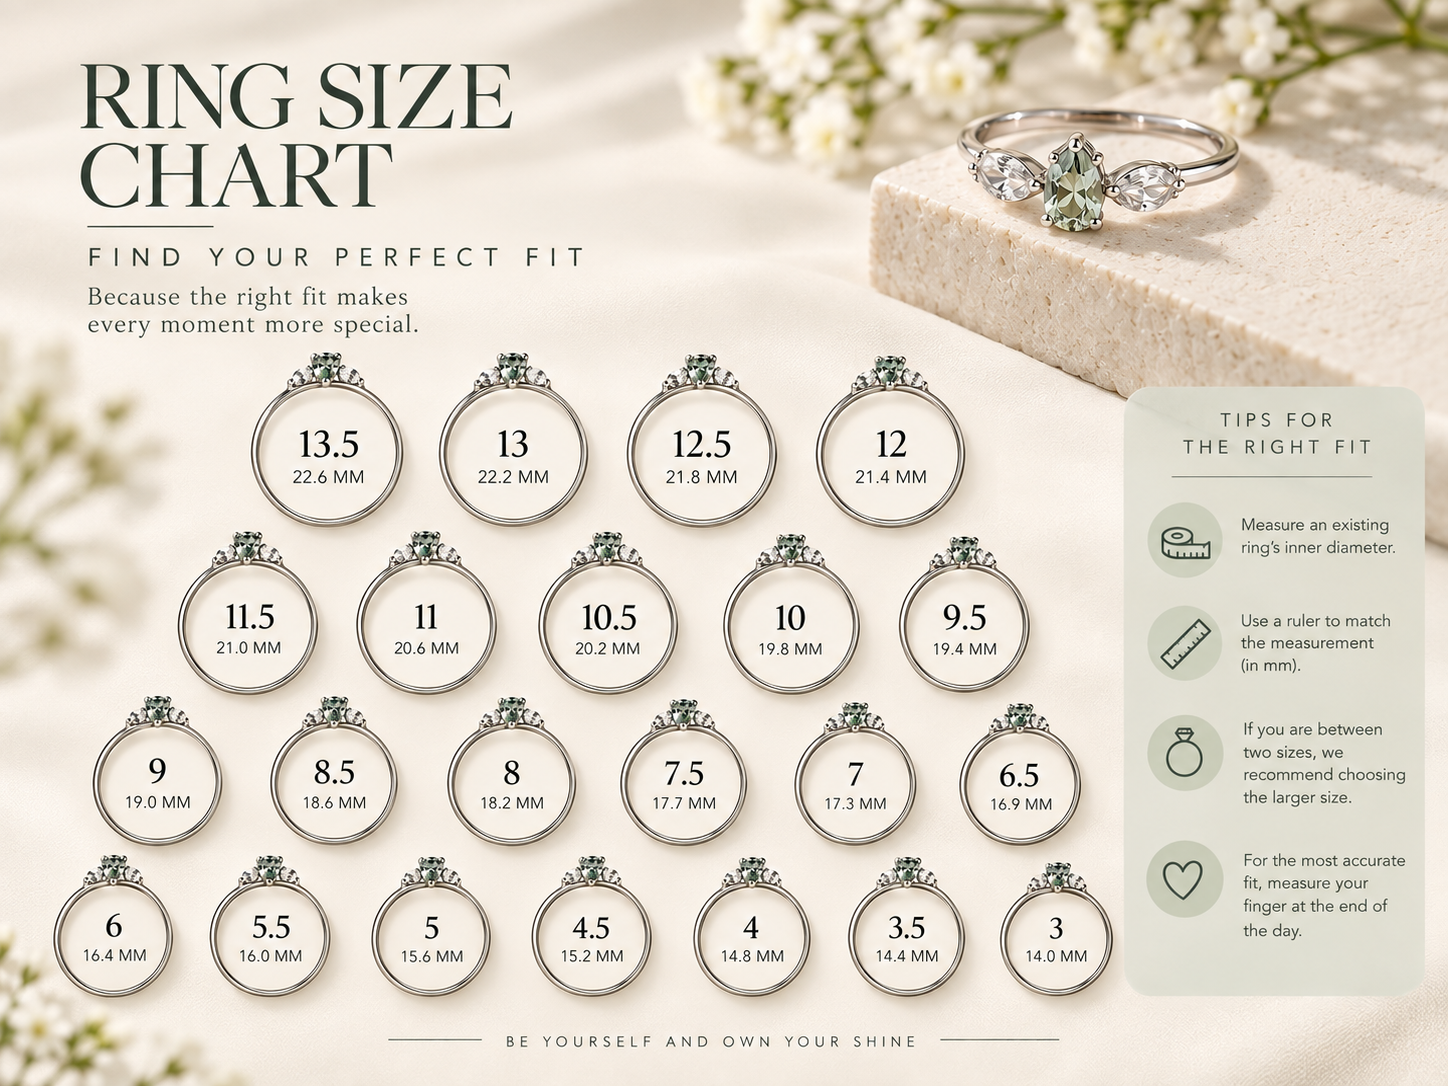
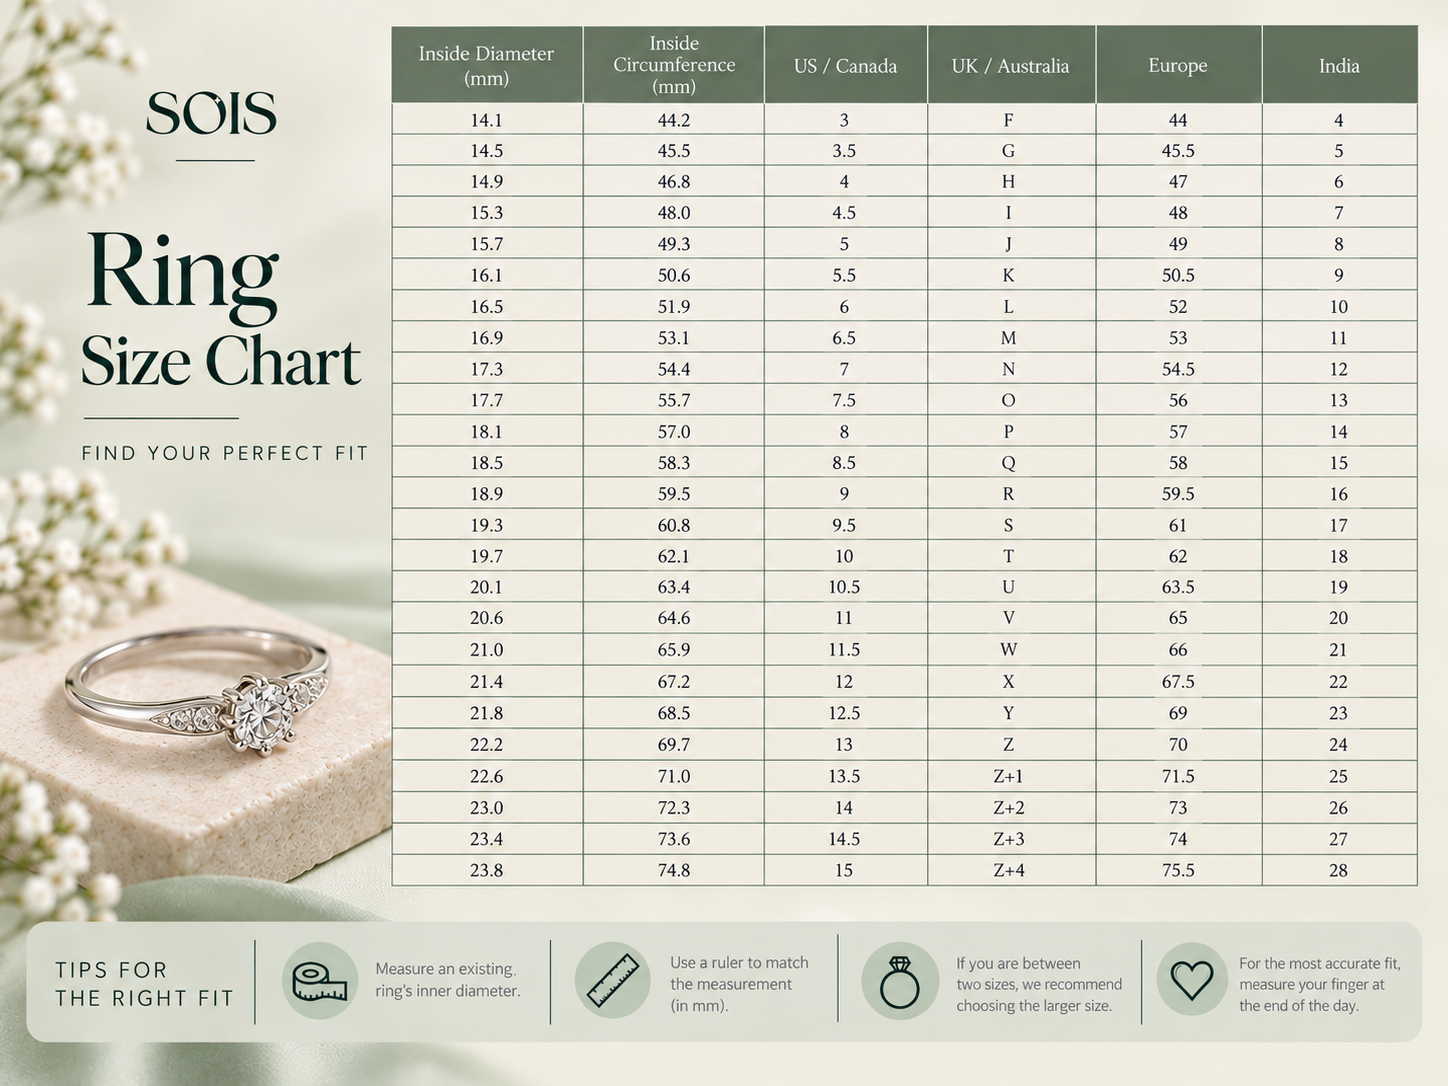
Replace ring size chart with new SOIS-branded table
New chart adds UK/Australia, Europe, and India size equivalents
alongside inside diameter/circumference in mm.

diff --git a/src/components/store/ProductDetail.tsx b/src/components/store/ProductDetail.tsx
@@ -486,7 +486,7 @@ export function ProductDetail({
           <div className="sois-sizechart">
             <Image
               src="/ring-size-chart.png"
-              alt="Ring size chart — US sizes 3 to 13.5 with inside diameter in millimetres"
+              alt="Ring size chart — inside diameter and circumference in millimetres, with US/Canada, UK/Australia, Europe, and India size equivalents"
               width={1448}
               height={1086}
               className="sois-sizechart-image"
